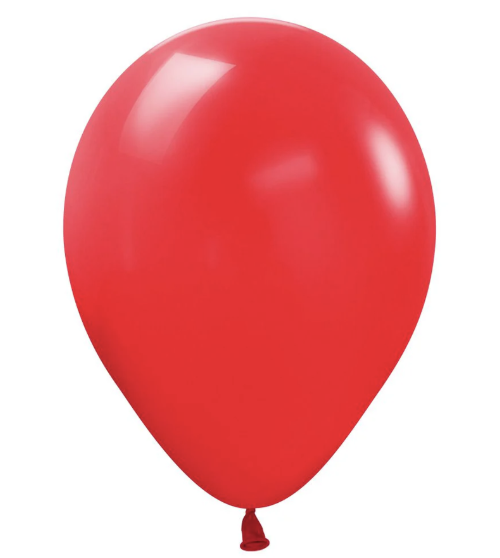
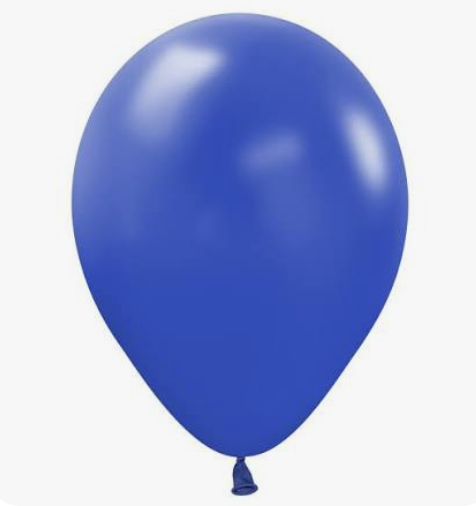
update

diff --git a/mgf2.html b/mgf2.html
@@ -255,7 +255,7 @@
       <div class="hero-main">
         <p class="eyebrow">Frequently Asked Questions</p>
         <h1 class="name">Mario Garza Livas<br><em>Twenty questions to get to know me in depth</em></h1>
-        <p class="roles">Twenty questions for anyone who wants to know Mario beyond the <a href="mgl2.html">landing page</a> and the <a href="mgp2.html">professional profile</a>. The landing page says who he is; the profile, what he does; this FAQ answers <em>how he thinks, why, and what he lives from</em>. They come in five layers, from the map to the center, in the first person.</p>
+        <p class="roles">Twenty questions for anyone who wants to know Mario beyond the <a href="mgl2.html">personal landing page</a> and the <a href="mgp2.html">professional profile</a>. The personal landing page says who he is; the professional profile, what he does; this FAQ answers <em>how he thinks, why, and what he lives from</em>. They come in five layers, from the map to the center, in the first person.</p>
       </div>
       <aside class="hero-side">
         <figure class="hero-portrait"><img src="assets/mgl-portrait.webp" alt="Mario Garza Livas" width="640" height="640" decoding="async" fetchpriority="high"></figure>

diff --git a/mgf1.html b/mgf1.html
@@ -255,7 +255,7 @@
       <div class="hero-main">
         <p class="eyebrow">Preguntas Frecuentes</p>
         <h1 class="name">Mario Garza Livas<br><em>Veinte preguntas para conocerme a fondo</em></h1>
-        <p class="roles">Veinte preguntas para quien quiera conocer a Mario más allá de la <a href="mgl1.html">landing</a> y del <a href="mgp1.html">perfil profesional</a>. La landing dice quién es; el perfil, qué hace; este FAQ responde <em>cómo piensa, por qué y desde dónde vive</em>. Van en cinco capas, del mapa al centro, en primera persona.</p>
+        <p class="roles">Veinte preguntas para quien quiera conocer a Mario más allá de la <a href="mgl1.html">landing personal</a> y del <a href="mgp1.html">perfil profesional</a>. La landing personal dice quién es; el perfil profesional, qué hace; este FAQ responde <em>cómo piensa, por qué y desde dónde vive</em>. Van en cinco capas, del mapa al centro, en primera persona.</p>
       </div>
       <aside class="hero-side">
         <figure class="hero-portrait"><img src="assets/mgl-portrait.webp" alt="Mario Garza Livas" width="640" height="640" decoding="async" fetchpriority="high"></figure>
